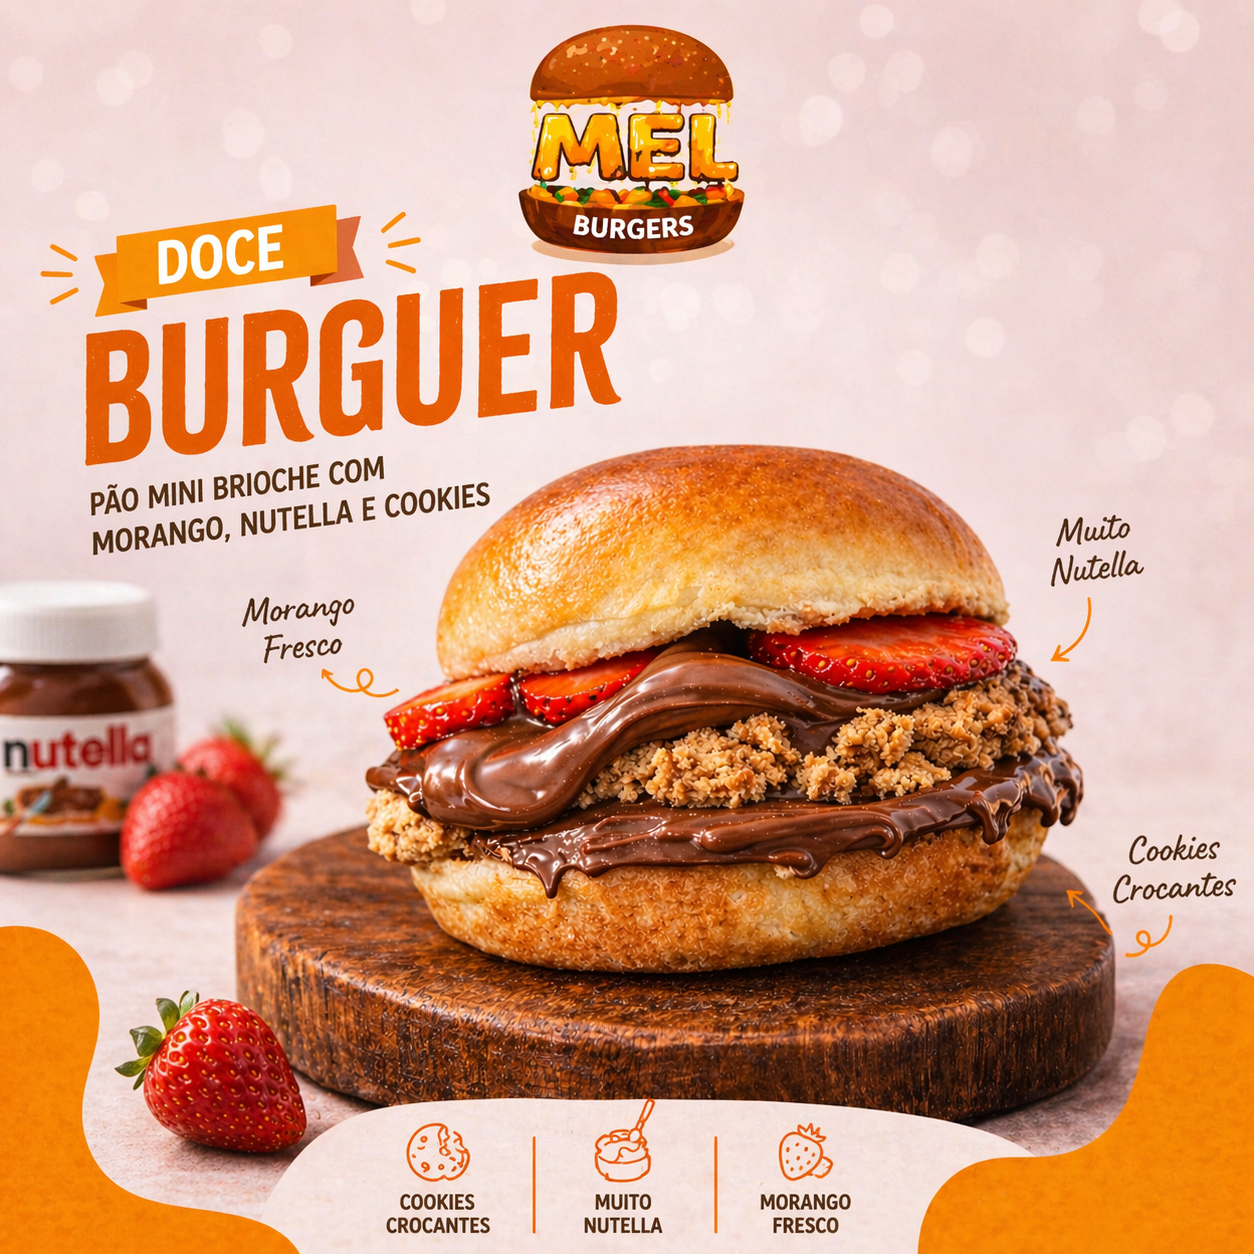
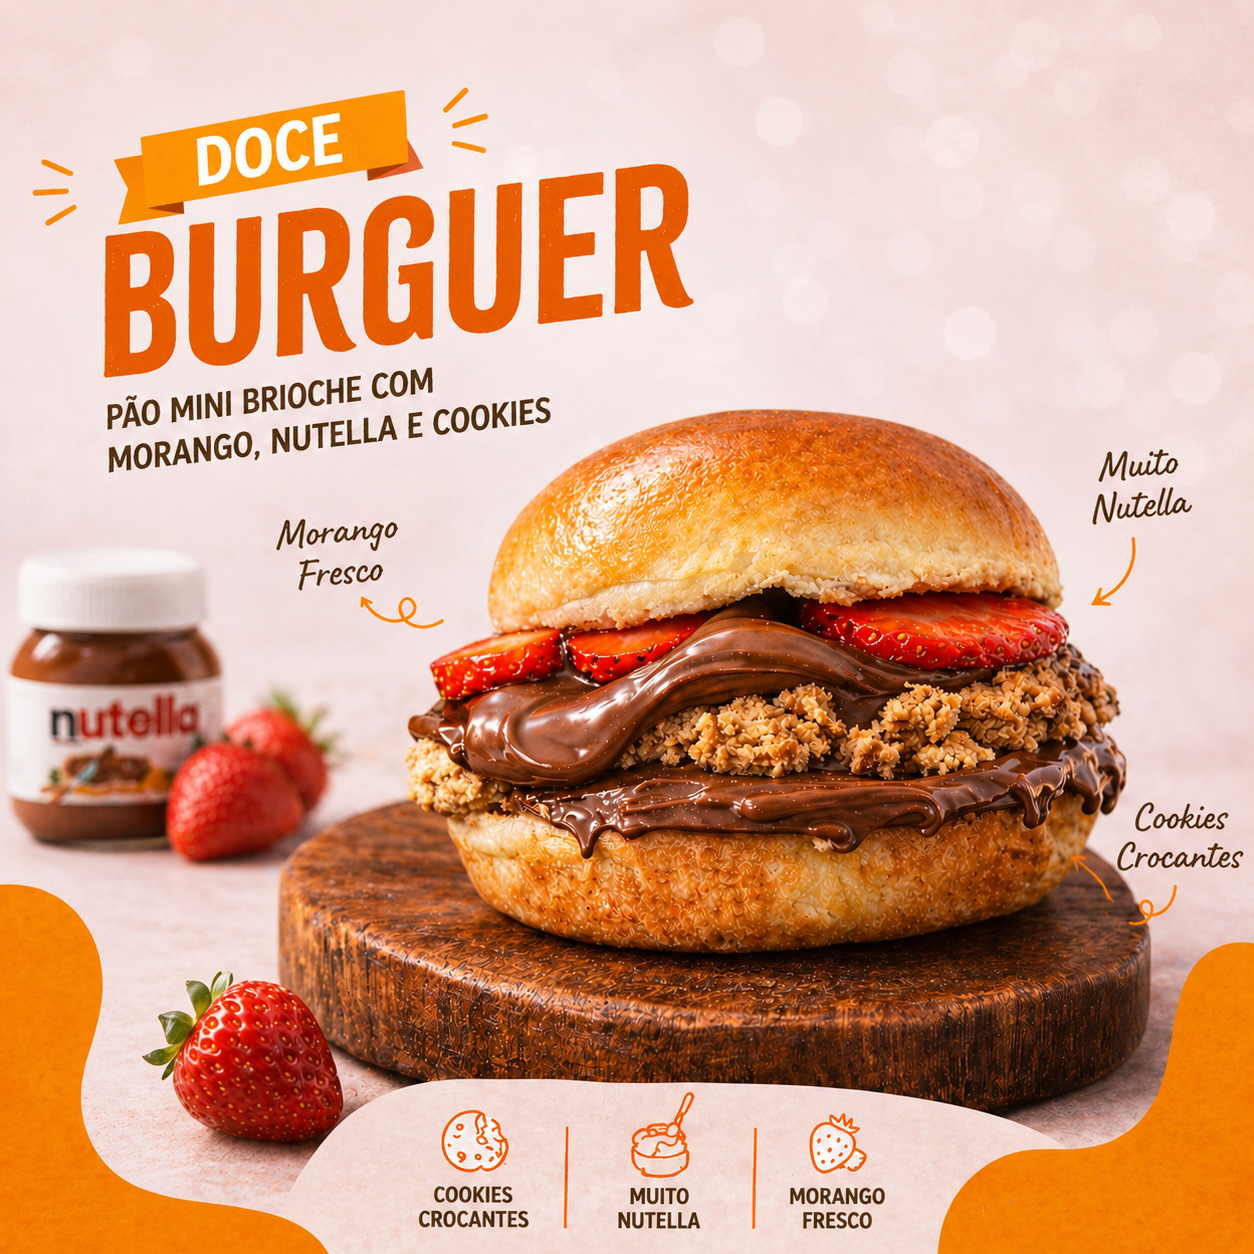
Added version 2.2 markers to UI and printer.

diff --git a/src/AdminDashboard.jsx b/src/AdminDashboard.jsx
@@ -1335,7 +1335,7 @@ const AdminDashboard = () => {
                   <span style={{ fontWeight: 900, fontSize: '18px', color: 'white' }}>M</span>
                 </div>
                 <div style={{ display: 'flex', flexDirection: 'column' }}>
-                  <span style={{ fontWeight: 600, fontSize: '14px', color: '#ffffff' }}>MELBURGERS</span>
+                  <span style={{ fontWeight: 600, fontSize: '14px', color: '#ffffff' }}>MELBURGERS V2.2</span>
                   <span style={{ fontSize: '10px', color: '#52525b', fontWeight: 600 }}>ADMIN PANEL</span>
                 </div>
               </div>

diff --git a/src/utils/printer.js b/src/utils/printer.js
@@ -75,6 +75,8 @@ export const formatOrderForPrinter = async (cart, total, address, paymentMethod,
   mainText += "MEL BURGERS\n";
   mainText += "\x1B\x21\x00"; // Normal size
   mainText += "V.2.1-2VIAS-LOGO\n";
+  const nowStr = new Date().toLocaleString('pt-BR');
+  mainText += `${nowStr}\n`;
   mainText += "Sabor que conquista!\n";
   mainText += "--------------------------------\n";
   

diff --git a/src/main.jsx b/src/main.jsx
@@ -5,6 +5,7 @@ import App from './App.jsx'
 import AdminDashboard from './AdminDashboard.jsx'
 
 const Root = () => {
+  window.MEL_VERSION = "2.2";
   const isAdmin = window.location.pathname === '/admin' || new URLSearchParams(window.location.search).has('admin');
   return isAdmin ? <AdminDashboard /> : <App />;
 };